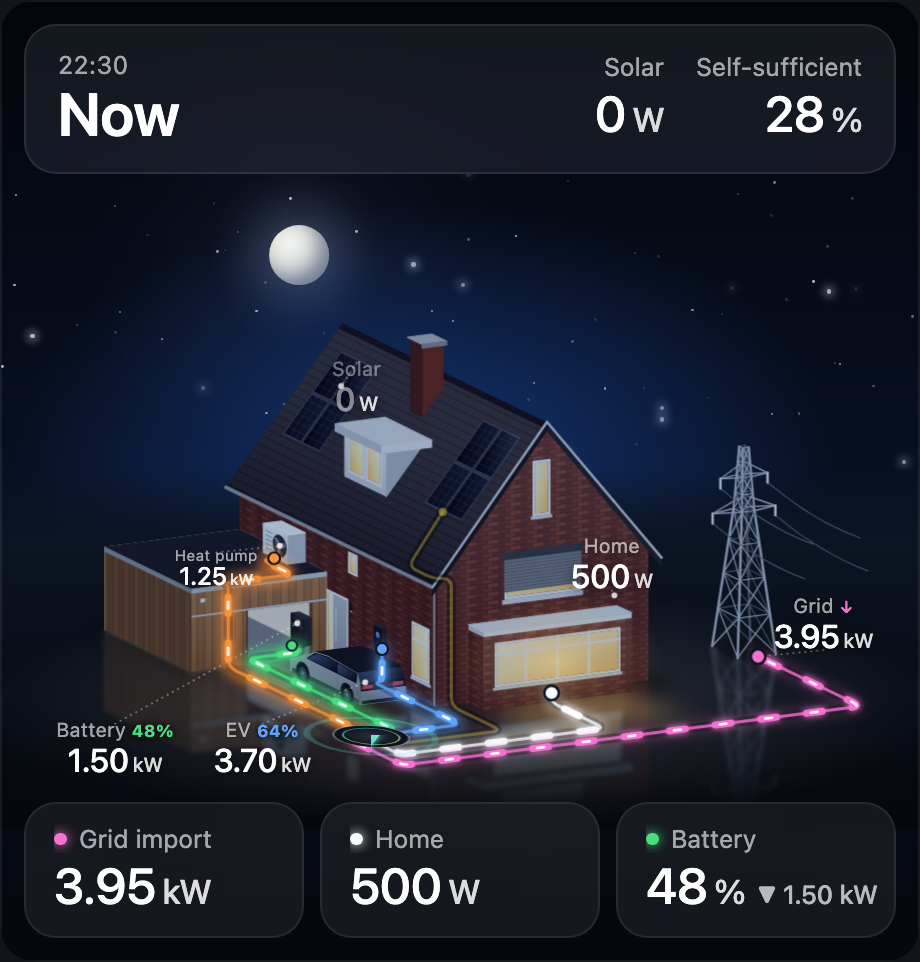
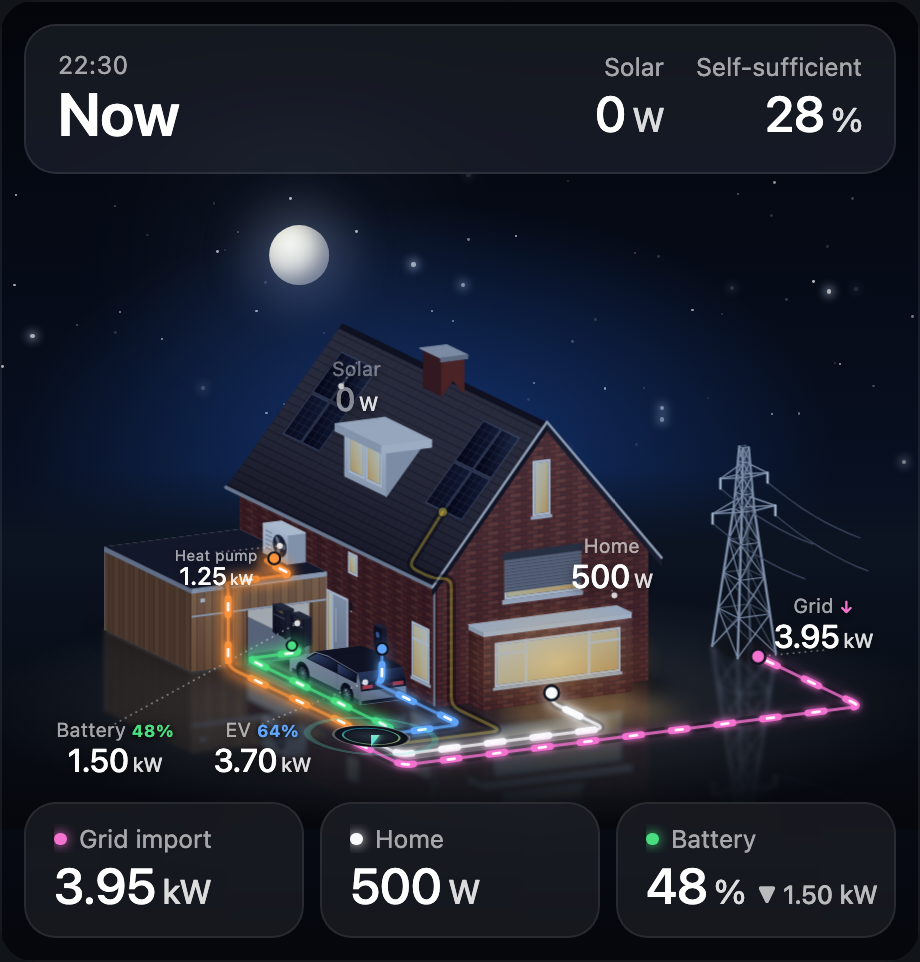
v3.3.2: chimney on the ridge, three-pane bay window, second battery
Chimney sits on the ridge, lower and deeper; the bay window's two middle
panes are one large pane; a second Marstek Venus E stands next to the first
in the garage (both show the same charge level).

Changed region(s): [[0.4261, 0.343, 0.5174, 0.4366], [0.2739, 0.6237, 0.3348, 0.6861], [0.4565, 0.7484, 0.487, 0.7796]]

diff --git a/home-energy-scene-card.js b/home-energy-scene-card.js
@@ -4,7 +4,7 @@
  * with solar roof, home battery, EV, heat pump and grid connection on a glossy floor.
  * Power lines pulse when energy flows; backdrop and lighting follow the time of day.
  */
-const HESC_VERSION = '3.3.1';
+const HESC_VERSION = '3.3.2';
 
 const I18N = {
   en: {
@@ -175,7 +175,7 @@ function house(m) {
   s += `<g transform="${frameZ(14, 0, 0, m)}">${rl(-10, 0, 0, 32, 'url(#pBrick)')}${rl(-10, 0, 0, 32, '#000', 'opacity=".2"')}${rl(-10, 0, 30.5, 32.6, '#c4cad1')}</g>`;
   s += `<g transform="${frameX(0, 0, -10, m)}">
     ${rl(14, 80, 0, 32, 'url(#pBrick)')}${rl(14, 80, 0, 32, 'url(#gWallLight)')}${rl(14, 80, 30.5, 32.6, '#eceff2')}
-    ${windowL(19, 75, 9, 27.5, m, { mull: [33, 47, 61], tr: 22.5 })}
+    ${windowL(19, 75, 9, 27.5, m, { mull: [33, 61] })}${rl(19, 33, 22, 23, '#f4f6f8')}${rl(61, 75, 22, 23, '#f4f6f8')}
   </g>`;
   if (m > 0) s += poly([[14, 32.6, -10], [80, 32.6, -10], [80, 32.6, 0], [14, 32.6, 0]], '#e2e6ea', m);
   if (m < 0) return s;
@@ -202,12 +202,12 @@ function house(m) {
   </g>`;
   s += seg(rpt(-3, LS), rpt(HD + 3, LS), m, '#9aa2ab', 1.6, 'stroke-linecap="round"');
 
-  // chimney (above the dormer, near the ridge)
+  // chimney on the ridge, above the dormer
   const cy = (x) => HE + PITCH * x;
-  s += poly([[35, cy(35), 62], [35, cy(35), 70], [35, 128, 70], [35, 128, 62]], '#4a2119', m);
-  s += poly([[35, cy(35), 62], [44, cy(44), 62], [44, 128, 62], [35, 128, 62]], '#6e3022', m);
-  s += poly([[34, 128, 61], [45, 128, 61], [45, 128, 71], [34, 128, 71]], '#b8bec6', m);
-  s += poly([[34, 128, 61], [45, 128, 61], [45, 126.5, 61], [34, 126.5, 61]], '#8b929b', m);
+  s += poly([[42, cy(42), 60], [42, cy(42), 72], [42, 122, 72], [42, 122, 60]], '#4a2119', m);
+  s += poly([[42, cy(42), 60], [HW / 2, HR, 60], [52, HR - PITCH * (52 - HW / 2), 60], [52, 122, 60], [42, 122, 60]], '#6e3022', m);
+  s += poly([[41, 122, 59], [53, 122, 59], [53, 122, 73], [41, 122, 73]], '#b8bec6', m);
+  s += poly([[41, 122, 59], [53, 122, 59], [53, 120.5, 59], [41, 120.5, 59]], '#8b929b', m);
 
   // dormer
   const dz0 = 52, dz1 = 80, dx = 12, dt = 92, dxr = (dt - HE) / PITCH;
@@ -256,18 +256,18 @@ function garage(m) {
 }
 
 // Marstek Venus E (black, rounded, on small feet), standing against the right garage wall, drawn ~1.5x size
-function battery(m) {
-  const x0 = -3.6, z0 = 84, z1 = 92, y0 = 0.7, y1 = 12;
+function battery(m, dz = 0) {
+  const x0 = -3.6, z0 = 84 + dz, z1 = 92 + dz, y0 = 0.7, y1 = 12;
   let s = '';
   [z0 + 0.8, z1 - 1.4].forEach((z) => { s += box(x0 + 0.6, x0 + 1.4, y0, z, z + 0.6, '#0b0c0e', '#0b0c0e', '#0b0c0e', m, 0); });
   s += box(x0, 0, y1, z0, z1, '#24272c', '#16181c', '#33363c', m, y0);
   s += `<g transform="${frameZ(x0 - 0.04, 0, 0, m)}">
     <rect x="${z0 + 0.15}" y="${-y1 + 0.1}" width="${z1 - z0 - 0.3}" height="${y1 - y0 - 0.2}" rx=".9" fill="url(#gVenus)"/>
     ${rl(z0 + 0.2, z1 - 0.2, 8.1, 8.3, '#9aa0a8')}
-    <rect x="${BAT.z0}" y="${-(BAT.y0 + BAT.h)}" width="${BAT.z1 - BAT.z0}" height="${BAT.h}" fill="#3a3f46"/>
-    ${[86.1, 87.1, 88.9, 89.9].map((z) => `<circle cx="${z}" cy="-11.1" r=".14" fill="#dfe5ec"/>`).join('')}
+    <rect x="${BAT.z0 + dz}" y="${-(BAT.y0 + BAT.h)}" width="${BAT.z1 - BAT.z0}" height="${BAT.h}" fill="#3a3f46"/>
+    ${[86.1, 87.1, 88.9, 89.9].map((z) => `<circle cx="${z + dz}" cy="-11.1" r=".14" fill="#dfe5ec"/>`).join('')}
   </g>`;
-  s += `<polygon class="socbar" points="" fill="#4ade80"/>`;
+  s += `<polygon class="socbar" data-m="${m}" data-dz="${dz}" points="" fill="#4ade80"/>`;
   return s;
 }
 
@@ -354,7 +354,7 @@ function car(m) {
   return s;
 }
 
-const solids = (m) => tower(m) + house(m) + garage(m) + heatpump(m) + battery(m) + wallbox(m) + car(m);
+const solids = (m) => tower(m) + house(m) + garage(m) + heatpump(m) + battery(m, 12) + battery(m) + wallbox(m) + car(m);
 
 function shadows() {
   const fp = (x0, x1, z0, z1) => `<polygon points="${pts([[x0, 0, z0], [x1, 0, z0], [x1, 0, z1], [x0, 0, z1]], 1)}"/>`;
@@ -566,7 +566,7 @@ function sceneSVG(colors) {
   <g fill="transparent">
     <polygon class="device" data-key="home" points="${pts([[0, 0, HD], [0, 0, -10], [HW, 0, -10], [HW, HE, 0], [HW / 2, HR, 0], [HW / 2, HR, HD], [0, HE, HD]], 1)}"/>
     <polygon class="device" data-key="solar" points="${pts([rpt(PANELS.groups[0], PANELS.v0), rpt(PANELS.groups[1] + PANELS.cols * PANELS.cw, PANELS.v0), rpt(PANELS.groups[1] + PANELS.cols * PANELS.cw, PANELS.v0 + PANELS.rows * PANELS.rh), rpt(PANELS.groups[0], PANELS.v0 + PANELS.rows * PANELS.rh)], 1)}"/>
-    <polygon class="device" data-key="battery" points="${hull(-3.6, 0, 0, 12, 84, 92)}"/>
+    <polygon class="device" data-key="battery" points="${hull(-3.6, 0, 0, 12, 84, 104)}"/>
     <polygon class="device" data-key="heatpump" points="${hull(-8, 0, GAR.h, GAR.h + 12, 88, 104)}"/>
     <polygon class="device" data-key="ev" points="${hull(-30, -10, 0, 17, 6, 53)}"/>
     <polygon class="device" data-key="grid" points="${hull(141, 159, 0, 84, 11, 29)}"/>
@@ -782,9 +782,9 @@ class HomeEnergySceneCard extends HTMLElement {
     const soc = v.battery_soc;
     const sw = soc == null ? 0 : ((BAT.z1 - BAT.z0) * clamp(soc, 0, 100)) / 100;
     const socCol = soc == null ? '#4ade80' : soc < 20 ? '#ef4444' : soc < 50 ? '#f59e0b' : '#4ade80';
-    $$('.socbar').forEach((bar, i) => {
-      const m = i === 0 ? -1 : 1; // the mirror image is first in the document
-      bar.setAttribute('points', pts([[BAT.x, BAT.y0, BAT.z0], [BAT.x, BAT.y0, BAT.z0 + sw], [BAT.x, BAT.y0 + BAT.h, BAT.z0 + sw], [BAT.x, BAT.y0 + BAT.h, BAT.z0]], m));
+    $$('.socbar').forEach((bar) => {
+      const m = +bar.dataset.m, dz = +bar.dataset.dz;
+      bar.setAttribute('points', pts([[BAT.x, BAT.y0, BAT.z0 + dz], [BAT.x, BAT.y0, BAT.z0 + dz + sw], [BAT.x, BAT.y0 + BAT.h, BAT.z0 + dz + sw], [BAT.x, BAT.y0 + BAT.h, BAT.z0 + dz]], m));
       bar.setAttribute('fill', socCol);
     });
 

diff --git a/README.md b/README.md
@@ -29,7 +29,7 @@ HACS registers the dashboard resource for you. If you installed the card manuall
 
 1. Copy `home-energy-scene-card.js` to `<config>/www/home-energy-scene-card.js`.
 2. Go to **Settings → Dashboards → ⋮ → Resources → Add resource**:
-   - URL: `/local/home-energy-scene-card.js?v=3.3.1`
+   - URL: `/local/home-energy-scene-card.js?v=3.3.2`
    - Type: **JavaScript module**
 3. Refresh the browser (hard refresh), then add a card of type `custom:home-energy-scene-card`.
 
